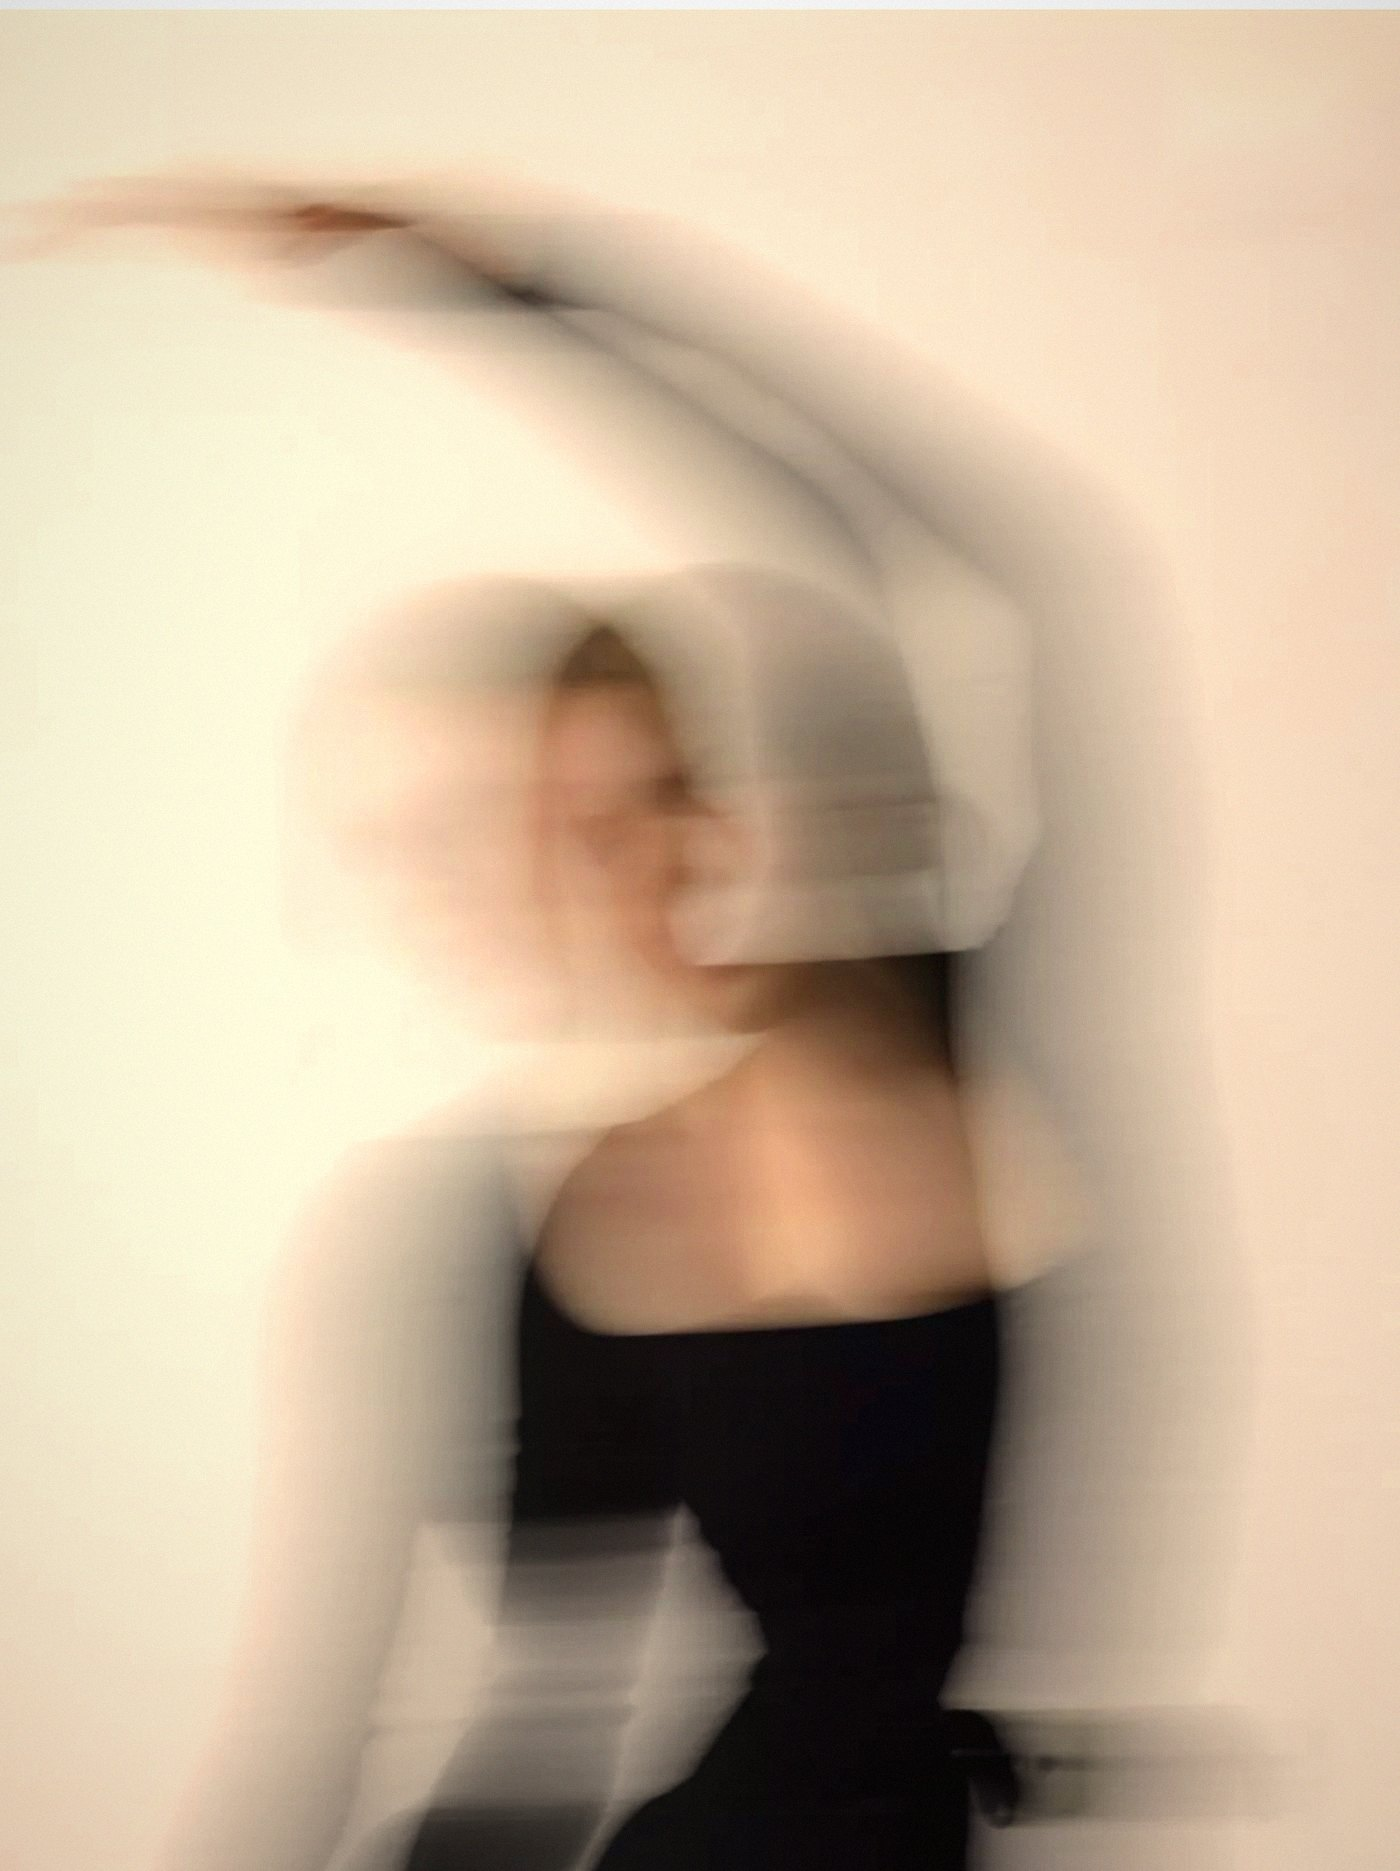
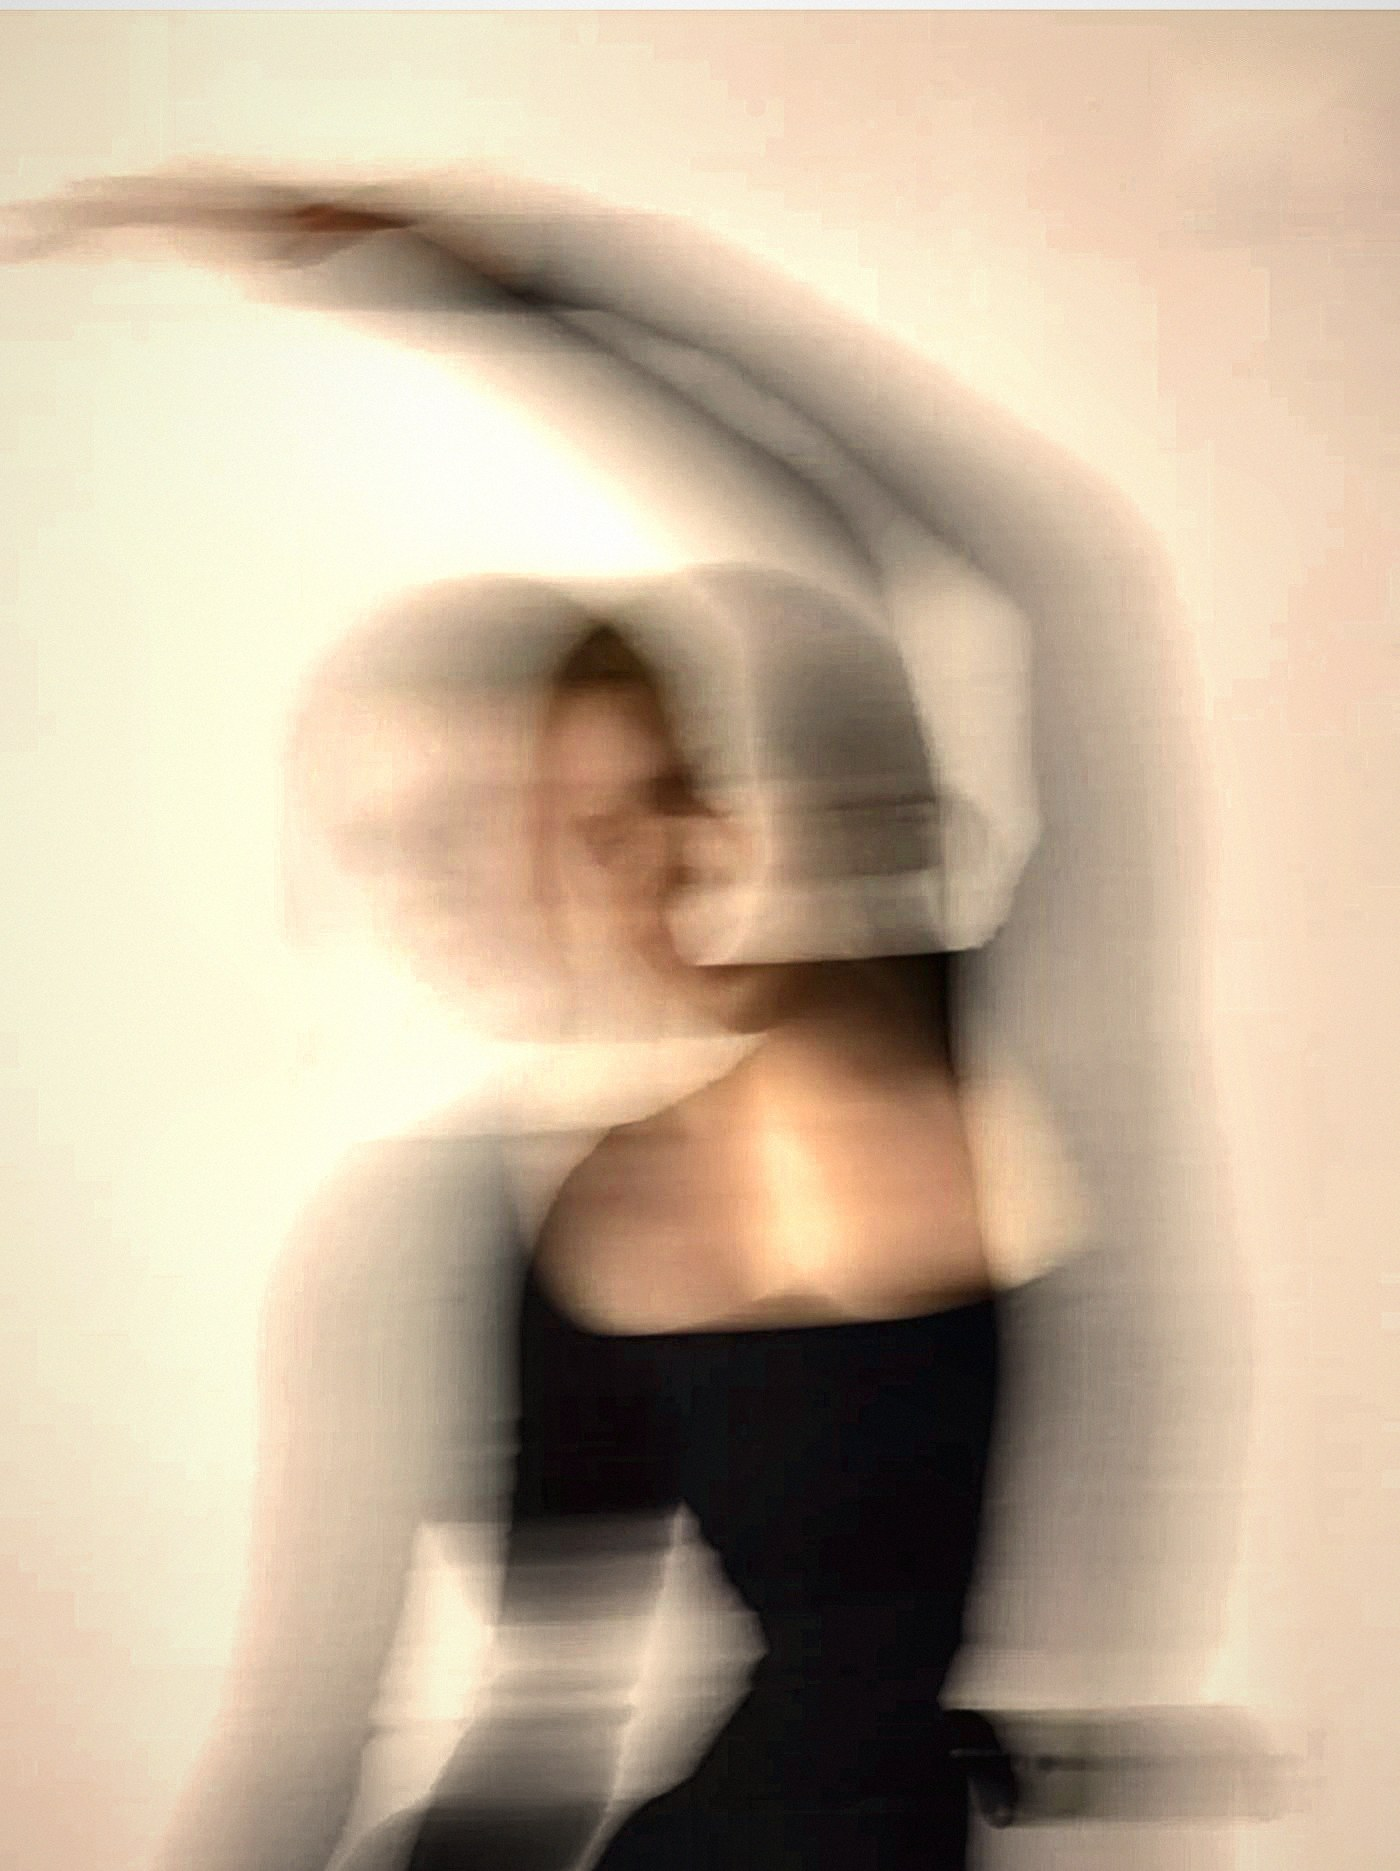
Kale kao zagrljaj iz uglova koji se otvara pri skrolu, manje zamućen hero
Claude-Session: https://claude.ai/code/session_016rbvAtb5nUWuUBdRbHMiaj

diff --git a/public/index.html b/public/index.html
@@ -64,18 +64,18 @@ a { color: var(--olive); text-decoration-color: rgba(92,98,62,.35); text-underli
 header.hero { padding-block: 26px 22px; display: grid; grid-template-columns: 1fr; gap: 18px; position: relative; }
 .hero-clip { overflow: hidden; }
 .hero-wide { position: absolute; inset: 0; pointer-events: none; z-index: 0; }
-.hero-wide .leaf { position: absolute; top: -20px; width: min(44vw, 360px); height: auto; opacity: .96; will-change: transform; transform: translateZ(0); }
-.hero-wide .leaf.l { left: calc(50% - min(380px, 50vw) - min(26vw, 250px)); top: -40px; }
-.hero-wide .leaf.r { right: calc(50% - min(380px, 50vw) - min(22vw, 200px)); top: 120px; width: min(40vw, 300px); transform: scaleX(-1) translateZ(0); }
+.hero-wide .leaf { position: absolute; bottom: -6%; height: 112%; width: auto; opacity: .96; will-change: transform, opacity; transform-origin: 50% 100%; }
+.hero-wide .leaf.l { left: calc(50% - min(380px, 50vw) - min(16vw, 150px)); --dir: -1; }
+.hero-wide .leaf.r { right: calc(50% - min(380px, 50vw) - min(16vw, 150px)); --dir: 1; }
 .hero-wide .mist { position: absolute; top: 40px; width: min(60vw, 520px); height: min(60vw, 520px); border-radius: 50%; background: radial-gradient(circle, rgba(92,98,62,.28), rgba(92,98,62,0) 62%); will-change: transform; }
 .hero-wide .mist.l { left: calc(50% - min(380px, 50vw) - min(34vw, 320px)); }
 .hero-wide .mist.r { right: calc(50% - min(380px, 50vw) - min(34vw, 320px)); top: 180px; }
 .arch, .hero-top, .tag { position: relative; z-index: 1; }
-.arch { box-shadow: 0 0 0 1px rgba(255,253,246,.9), 0 0 0 10px rgba(255,253,246,.35), 0 30px 70px -30px rgba(63,69,43,.5), 0 0 120px rgba(92,98,62,.18), inset 0 0 90px rgba(255,253,246,.9); }
+.arch { box-shadow: 0 0 0 1px rgba(255,253,246,.9), 0 0 0 10px rgba(255,253,246,.35), 0 30px 70px -30px rgba(63,69,43,.5), 0 0 120px rgba(92,98,62,.18), inset 0 0 40px rgba(255,253,246,.45); }
 @media (max-width: 760px) {
-  .hero-wide .leaf { width: 46vw; }
-  .hero-wide .leaf.l { left: -20vw; top: -30px; }
-  .hero-wide .leaf.r { right: -18vw; top: 110px; width: 40vw; }
+  .hero-wide .leaf { height: 72%; bottom: 30%; opacity: .9; }
+  .hero-wide .leaf.l { left: -30vw; }
+  .hero-wide .leaf.r { right: -30vw; }
   .hero-wide .mist.l { left: -30vw; } .hero-wide .mist.r { right: -30vw; }
 }
 .hero-top { display: flex; justify-content: space-between; align-items: center; gap: 16px; }
@@ -83,9 +83,9 @@ header.hero { padding-block: 26px 22px; display: grid; grid-template-columns: 1f
 .account { display: flex; gap: 14px; font-size: 11px; letter-spacing: .2em; text-transform: uppercase; color: var(--ink-soft); }
 .account a, .account .link { color: var(--ink); background: none; border: 0; font: inherit; letter-spacing: inherit; text-transform: inherit; cursor: pointer; padding: 0; text-decoration: none; border-bottom: 1px solid var(--line); }
 .arch { position: relative; border-radius: 999px 999px 28px 28px; overflow: hidden; aspect-ratio: 4 / 5; max-height: 520px; width: 100%; background: var(--bg-deep);
-  box-shadow: 0 0 0 1px rgba(255,253,246,.9), 0 0 0 10px rgba(255,253,246,.35), 0 30px 70px -30px rgba(29,28,25,.45), inset 0 0 90px rgba(255,253,246,.9); }
+  box-shadow: 0 0 0 1px rgba(255,253,246,.9), 0 0 0 10px rgba(255,253,246,.35), 0 30px 70px -30px rgba(29,28,25,.45), inset 0 0 40px rgba(255,253,246,.45); }
 .arch img { position: absolute; inset: 0; width: 100%; height: 100%; object-fit: cover; object-position: 50% 30%; display: block; filter: saturate(.85) brightness(1.03); animation: settle 2.4s ease-out both; will-change: transform, opacity; transform: translateZ(0); }
-.arch img.blurred { filter: blur(18px) saturate(.85) brightness(1.03); transform: scale(1.1); opacity: 0; }
+.arch img.blurred { filter: blur(9px) saturate(.85) brightness(1.03); transform: scale(1.1); opacity: 0; }
 .arch { aspect-ratio: 4 / 5; }
 .motion { padding-block: 10px 0; }
 .motion-panel { margin: 0; position: relative; border-radius: 28px; overflow: hidden; aspect-ratio: 16 / 9; background: var(--bg-deep); box-shadow: 0 30px 70px -40px rgba(63,69,43,.6), 0 0 0 1px rgba(255,253,246,.8); }
@@ -96,7 +96,7 @@ header.hero { padding-block: 26px 22px; display: grid; grid-template-columns: 1f
 .motion-panel figcaption span { display: block; font-style: normal; font-size: .62em; letter-spacing: .26em; text-transform: uppercase; font-family: var(--sans); color: rgba(248,245,237,.85); margin-bottom: 6px; }
 @media (max-width: 560px) { .motion-panel { aspect-ratio: 4 / 5; border-radius: 22px; } }
 @keyframes settle { from { opacity: 0; } to { opacity: 1; } }
-.arch::after { content: ""; position: absolute; inset: 0; background: linear-gradient(to top, rgba(239,234,224,.98) 0%, rgba(239,234,224,.7) 28%, transparent 58%); }
+.arch::after { content: ""; position: absolute; inset: 0; background: linear-gradient(to top, rgba(239,234,224,.96) 0%, rgba(239,234,224,.55) 26%, transparent 52%); }
 .arch .brand { position: absolute; left: 0; right: 0; bottom: 24px; text-align: center; z-index: 1; padding: 0 16px; }
 .brand .eyebrow { font-size: 10px; letter-spacing: .36em; text-transform: uppercase; color: var(--ink-soft); margin: 0 0 8px; }
 .brand h1 { font-family: var(--display); font-weight: 400; font-size: clamp(44px, 11vw, 74px); line-height: .9; margin: 0; letter-spacing: .12em; color: var(--ink); text-transform: uppercase; }
@@ -297,8 +297,8 @@ footer span { display: block; font-family: var(--sans); font-style: normal; font
 <div class="hero-clip"><header class="wrap hero">
   <div class="hero-wide" aria-hidden="true">
     <div class="mist l" data-speed="-.08"></div><div class="mist r" data-speed=".06"></div>
-    <img class="leaf l" src="/img/calla-l.webp" alt="" width="700" height="1865" decoding="async" data-speed=".16">
-    <img class="leaf r" src="/img/calla-r.webp" alt="" width="606" height="1525" decoding="async" data-speed=".28">
+    <img class="leaf l" src="/img/calla.webp" alt="" width="1206" height="1861" decoding="async" data-open="-1">
+    <img class="leaf r" src="/img/calla.webp" alt="" width="1206" height="1861" decoding="async" data-open="1">
   </div>
   <div class="hero-top">
     <img class="logo" src="/logo.svg" alt="Ritual Pilates Studio" width="64" height="64">
@@ -1047,10 +1047,19 @@ window.addEventListener("hashchange", route);
   const base = items.map(e => getComputedStyle(e).transform === "none" ? "" : getComputedStyle(e).transform);
   let ticking = false;
   const blurs = [...document.querySelectorAll("[data-blur]")];
+  const opens = [...document.querySelectorAll("[data-open]")];
+  const heroEl = document.querySelector("header.hero"), heroH = () => heroEl ? heroEl.offsetHeight : innerHeight;
   const clamp = (v, a, b) => Math.max(a, Math.min(b, v));
   const update = () => {
     const y = scrollY;
     items.forEach((e, i) => { e.style.transform = `translate3d(0, ${Math.round(y * parseFloat(e.dataset.speed))}px, 0) ${base[i]}`; });
+    // kale: zagrljaj koji se polako otvara dok se skroluje
+    const q = clamp(y / Math.max(heroH() * 1.15, 1), 0, 1), ease = q * (2 - q);
+    for (const e of opens) {
+      const d = parseFloat(e.dataset.open), lean = 20 + ease * 32, shift = ease * Math.min(innerWidth * .45, 420);
+      e.style.transform = `translate3d(${(d * shift).toFixed(1)}px, ${(ease * 40).toFixed(1)}px, 0) rotate(${(d * lean).toFixed(2)}deg) scaleX(${d > 0 ? -1 : 1})`;
+      e.style.opacity = (1 - ease * .85).toFixed(3);
+    }
     for (const img of blurs) {
       const r = img.getBoundingClientRect();
       // zamućena kopija je unapred izračunata; menja se samo providnost i pomeraj (jeftino za GPU)
